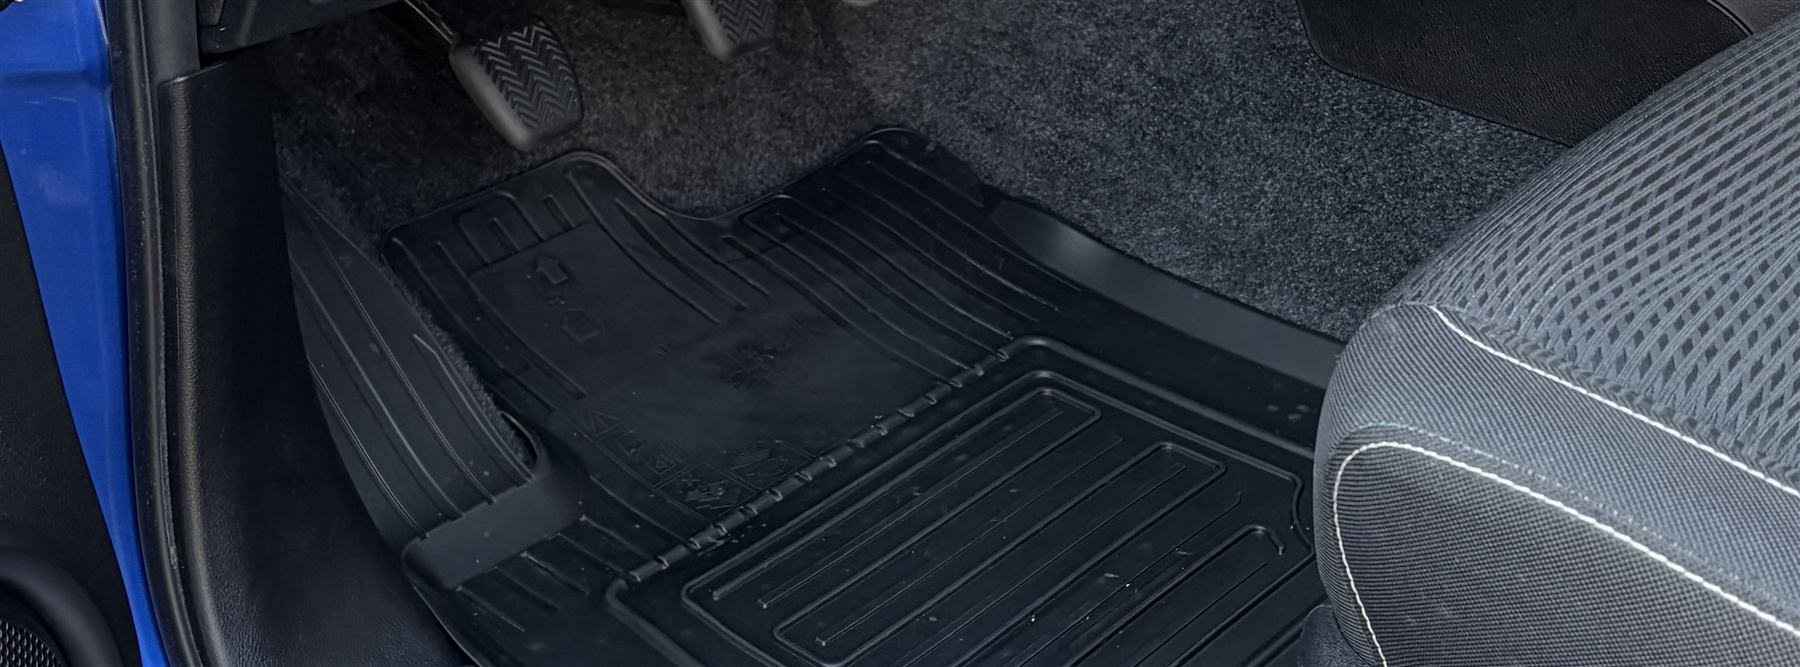
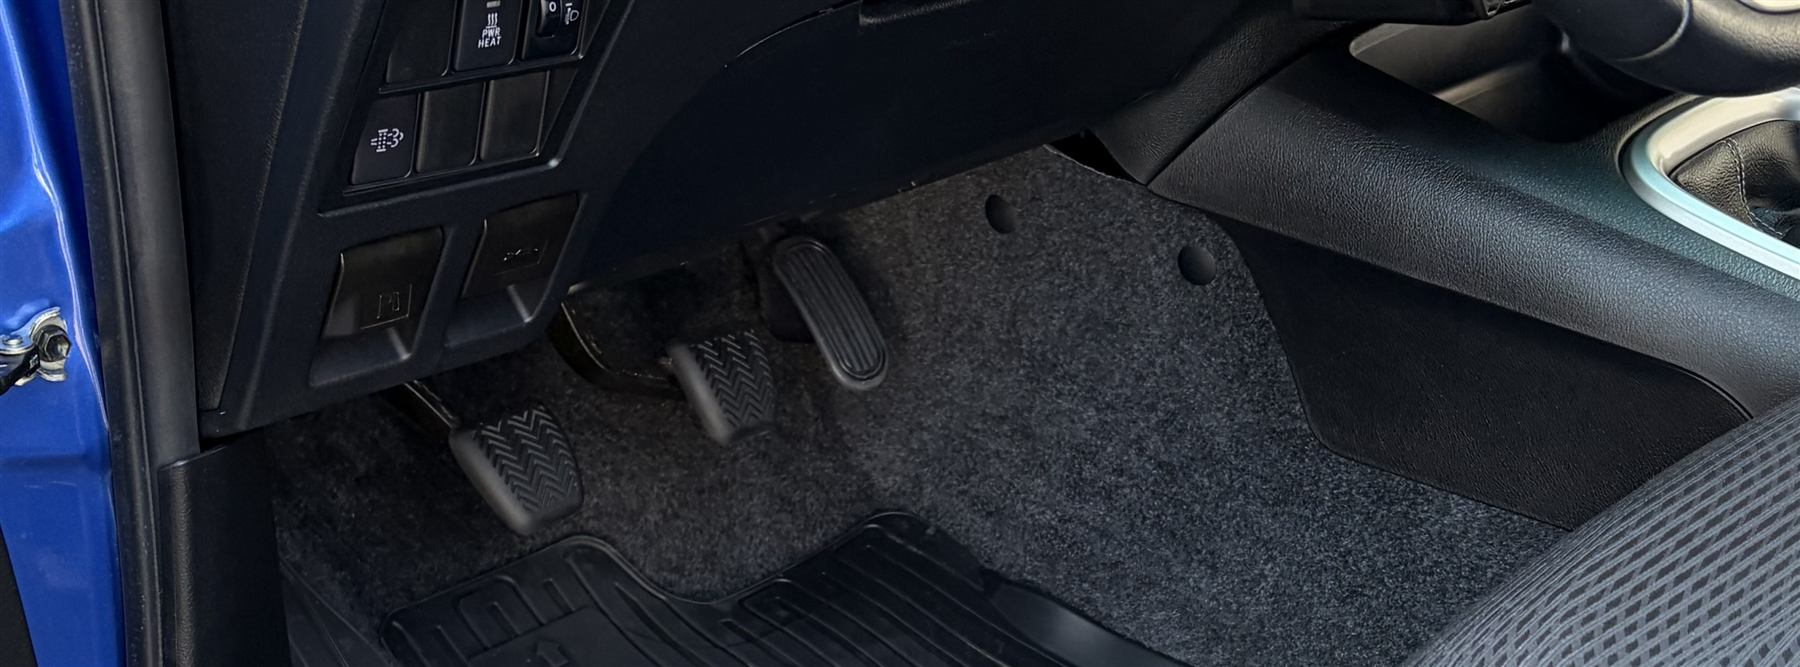
Ajuste cadrage/hauteur headers + ajoute header Devis Tapis manquant
Recadrage bleu-apres-banner corrige (38% au lieu de 50%, plus flatteur,
compare visuellement a plusieurs options). Hauteur des headers passee
a 55svh desktop / 280px mobile. PageHeaderBanner rendu flexible (prop
image) et applique a Devis Tapis avec tapis-banner.jpg (visuel
temporaire, pas une vraie photo).

diff --git a/src/components/PageHeaderBanner.jsx b/src/components/PageHeaderBanner.jsx
@@ -1,13 +1,14 @@
-// Bannière de header — utilisée sur Services / Réservation / Avis & Contact pour un
-// traitement visuel cohérent (même photo, même overlay, même style de titre).
-// Hauteur : 250px fixe sur mobile, 45svh sur desktop — voir .page-header-banner (App.css).
-// Photo : src/images/bleu-apres-banner.jpg (version optimisée web de bleu-apres.jpeg,
-// fichier source jamais modifié ni déplacé).
+// Bannière de header — utilisée sur Services / Réservation / Devis Tapis / Avis & Contact
+// pour un traitement visuel cohérent (même overlay, même style de titre).
+// Hauteur : 280px fixe sur mobile, 55svh sur desktop — voir .page-header-banner (App.css).
+// Image par défaut : src/images/bleu-apres-banner.jpg (version optimisée web de
+// bleu-apres.jpeg, fichier source jamais modifié ni déplacé). Passer `image` pour
+// utiliser une autre photo (ex. tapis-banner.jpg sur Devis Tapis).
 import { C, F } from '../tokens';
 import FadeIn from './FadeIn';
-import bannerImg from '../images/bleu-apres-banner.jpg';
+import defaultBannerImg from '../images/bleu-apres-banner.jpg';
 
-export default function PageHeaderBanner({ title }) {
+export default function PageHeaderBanner({ title, image }) {
   return (
     <section
       className="page-header-banner"
@@ -20,7 +21,7 @@ export default function PageHeaderBanner({ title }) {
       }}
     >
       <img
-        src={bannerImg}
+        src={image || defaultBannerImg}
         alt=""
         aria-hidden="true"
         style={{ position: 'absolute', inset: 0, width: '100%', height: '100%', objectFit: 'cover', objectPosition: 'center' }}

diff --git a/src/pages/DevisTapisPage.jsx b/src/pages/DevisTapisPage.jsx
@@ -5,6 +5,9 @@ import { C, F, PHONE, PHONE_DISPLAY } from '../tokens';
 import FadeIn from '../components/FadeIn';
 import Btn from '../components/Btn';
 import { WhatsAppIcon, PhoneIcon, CheckIcon } from '../components/Icons';
+import PageHeaderBanner from '../components/PageHeaderBanner';
+// Visuel temporaire (générique, pas une vraie photo tapis) — voir JOURNAL.md
+import tapisBanner from '../images/tapis-banner.jpg';
 
 const inputStyle = {
   width: '100%', padding: '12px 14px', borderRadius: 10,
@@ -34,12 +37,11 @@ export default function DevisTapisPage() {
   const waLink = `https://wa.me/33779726076?text=${encodeURIComponent(message)}`;
 
   return (
-    <section className="sec-p" style={{ paddingTop: 120 }}>
+    <>
+      <PageHeaderBanner title="Devis Tapis" image={tapisBanner} />
+      <section className="sec-p">
       <div style={{ maxWidth: 640, margin: '0 auto', padding: '0 24px' }}>
         <FadeIn>
-          <h1 style={{ fontFamily: F.heading, fontSize: 'clamp(1.8rem, 4vw, 2.4rem)', fontWeight: 700, color: C.dark, marginBottom: 12, textAlign: 'center' }}>
-            Devis Tapis
-          </h1>
           <p style={{ fontSize: 15, color: C.muted, textAlign: 'center', lineHeight: 1.7, marginBottom: 40 }}>
             Chaque tapis est différent — aucun prix fixe n'est affiché. Décrivez-le-nous et on vous répond avec un devis personnalisé, sans réservation automatique.
           </p>
@@ -84,6 +86,7 @@ export default function DevisTapisPage() {
           </div>
         </FadeIn>
       </div>
-    </section>
+      </section>
+    </>
   );
 }

diff --git a/src/App.css b/src/App.css
@@ -62,12 +62,12 @@ button { font-family: inherit; }
   .flow-sticky-cta  { display: flex !important; }
 }
 
-/* ── Bannière de header de page (Services / Réservation / Avis & Contact) ──────── */
-/* Mobile : hauteur fixe 250px. Desktop (>768px) : 45% de la hauteur de viewport,
+/* ── Bannière de header de page (Services / Réservation / Devis Tapis / Avis & Contact) ── */
+/* Mobile : hauteur fixe 280px. Desktop (>768px) : 55% de la hauteur de viewport,
    proportionnel plutôt que fixe pour s'adapter aux différentes tailles d'écran. */
-.page-header-banner { height: 250px; }
+.page-header-banner { height: 280px; }
 @media (min-width: 769px) {
-  .page-header-banner { height: 45svh; }
+  .page-header-banner { height: 55svh; }
 }
 
 /* ── Padding de section ──────────────────────────────────────────────────────── */

diff --git a/JOURNAL.md b/JOURNAL.md
@@ -299,3 +299,22 @@ Un slider avant/après à glissière nécessite de la gestion d'état (position 
 - Rendu vérifié desktop + mobile, capturé
 - Galerie Avant/Après : 5 paires (Auto, Canapé ×2, Auto — sièges, Matelas), grille 2 colonnes
 - TODO restants : aucun côté code — reste à obtenir une vraie photo tapis (avant/après) quand disponible
+
+---
+
+## 2026-07-31 (suite) — Ajustements headers + header Devis Tapis manquant
+
+**1. Cadrage corrigé (`bleu-apres-banner.jpg`)** : l'ancien recadrage (centré à 50% de la hauteur de la photo source) montrait surtout le tapis de sol en gros plan — pas franchement flatteur, lu comme "juste le bas" de la photo. Comparé visuellement 3 options de cadrage (30%, 38%, 50% de la hauteur source) avant de choisir : retenu **38%** (légèrement au-dessus du centre géométrique), qui montre tableau de bord + pédales + tapis de sol dans un cadre plus riche et reconnaissable comme intérieur de véhicule. Fichier régénéré à la même résolution/qualité (1800×667, 158 Ko).
+
+**2. Hauteur des headers augmentée** : classe `.page-header-banner` (`App.css`) passée de 45svh/250px à **55svh (desktop) / 280px (mobile)**.
+
+**3. Header Devis Tapis ajouté** — cette page n'avait encore aucune bannière photo. `PageHeaderBanner.jsx` rendu flexible (nouvelle prop `image`, optionnelle, avec la photo `bleu-apres-banner.jpg` comme valeur par défaut pour ne rien casser sur les 3 pages existantes). Nouveau fichier `src/images/tapis-banner.jpg` généré à partir de `tapis.png` (recadré au format bannière 2.7:1, 1800×667, 269 Ko) — **visuel générique temporaire, pas une vraie photo**, comme déjà noté pour cette catégorie. `DevisTapisPage.jsx` utilise `<PageHeaderBanner title="Devis Tapis" image={tapisBanner} />`.
+
+**Vérifié** : compilation sans erreur, capture desktop (1440px) et mobile (375px) des 4 pages (Services, Réservation, Devis Tapis, Avis & Contact) — même traitement visuel cohérent sur les 4, hauteur visiblement plus généreuse, cadrage bleu-après nettement plus lisible qu'avant, aucune erreur console.
+
+**Rapport :**
+- 4 headers confirmés : Services, Réservation, Devis Tapis (nouveau), Avis & Contact
+- Hauteur appliquée : 55svh desktop, 280px mobile
+- Cadrage jugé correct après comparaison de 3 options contre la photo source — retenu 38% (légèrement au-dessus du centre)
+- Devis Tapis : visuel temporaire (`tapis.png`), à remplacer par une vraie photo tapis avant/après quand disponible
+- Vérifié desktop ET mobile, capturé
